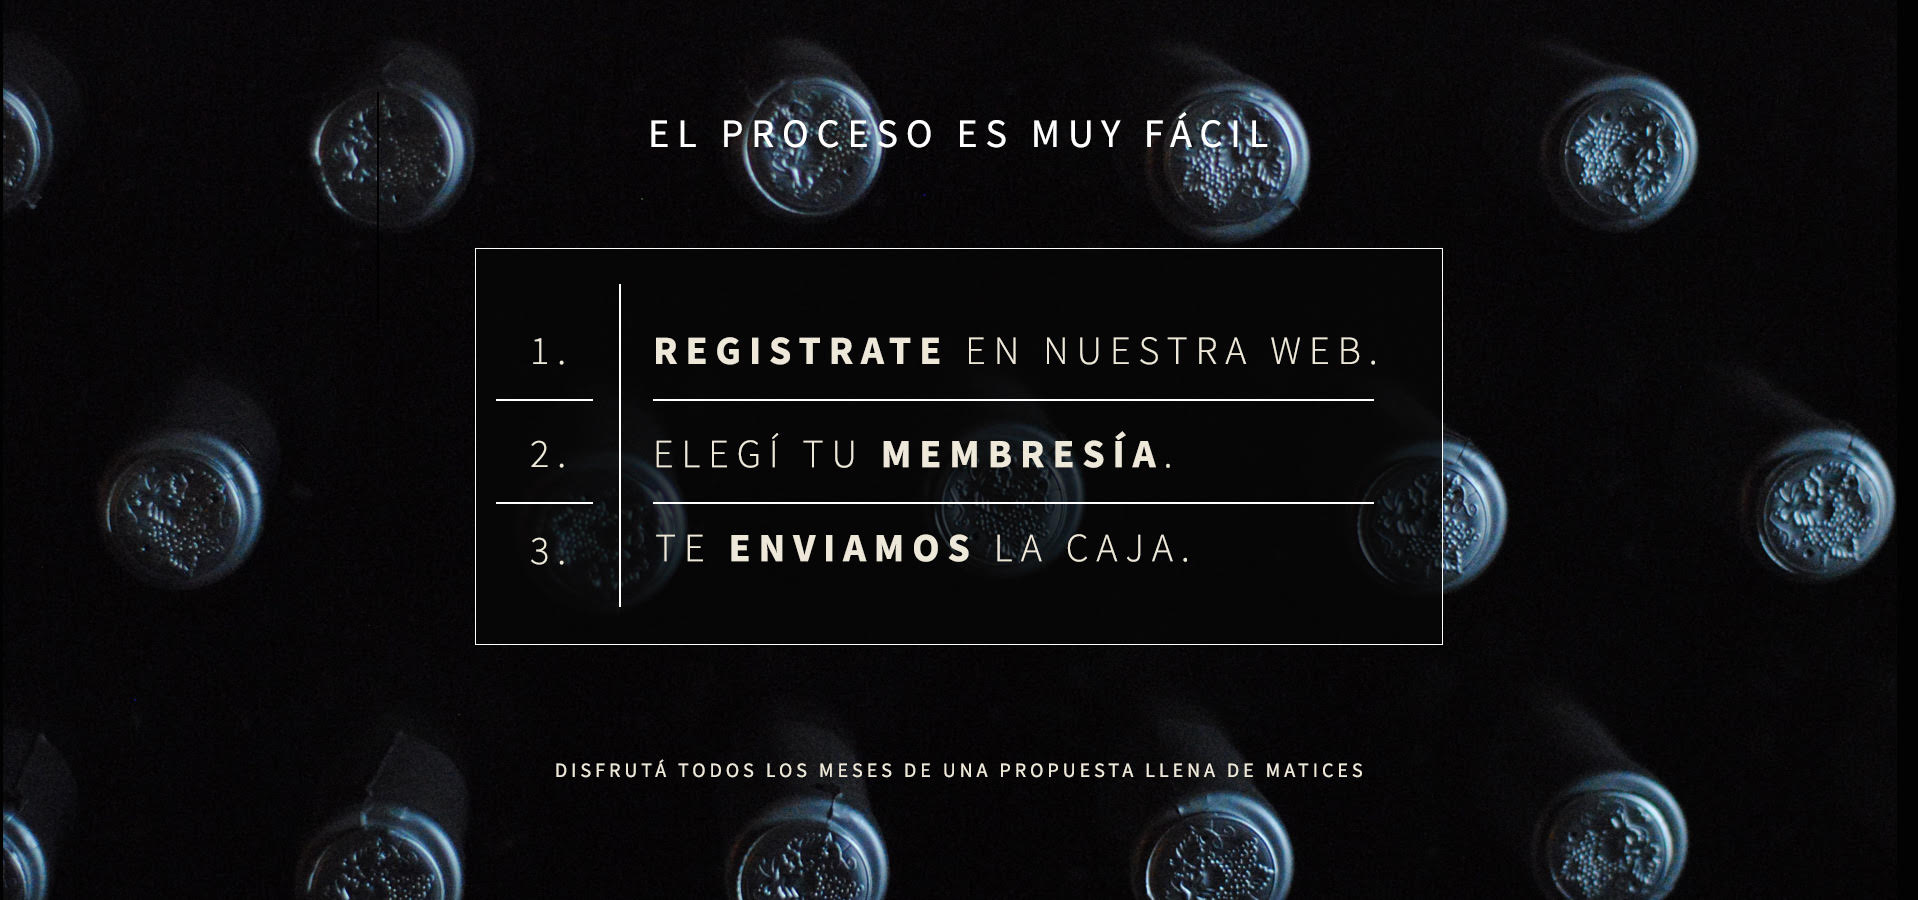
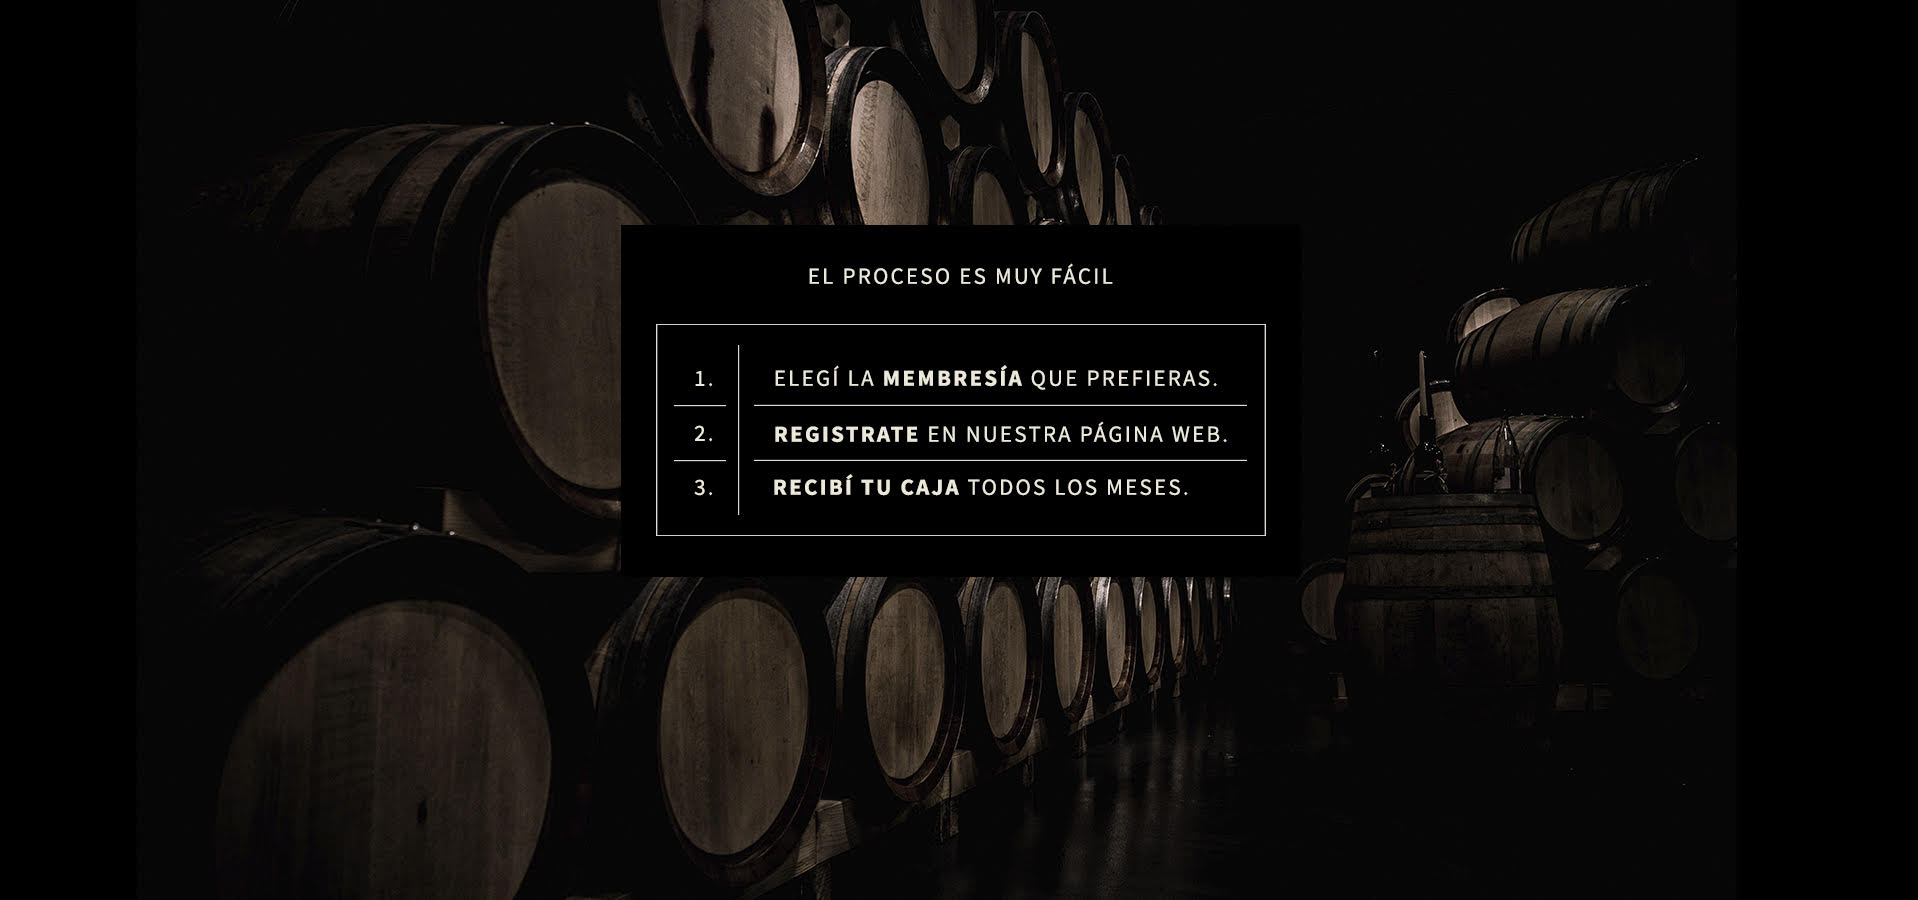
Cambios en membresia y header

diff --git a/index-1.html b/index-1.html
@@ -28,7 +28,9 @@
     <link href="https://fonts.googleapis.com/css?family=Montserrat:400,700" rel="stylesheet" type="text/css" />
     <link href="https://fonts.googleapis.com/css?family=Droid+Serif:400,700,400italic,700italic" rel="stylesheet" type="text/css" />
     <link href="https://fonts.googleapis.com/css?family=Roboto+Slab:400,100,300,700" rel="stylesheet" type="text/css" />
-    
+    <style>
+
+    </style>
     <!-- Global site tag (gtag.js) - Google Analytics -->
     <script async src="https://www.googletagmanager.com/gtag/js?id=UA-189378358-1"></script>
     <script>
@@ -81,6 +83,7 @@
         <div class="collapse navbar-collapse" id="navbarResponsive">
             <ul class="navbar-nav text-uppercase mx-auto">
                 <li class="nav-item"><a class="nav-link js-scroll-trigger" href="#contact"><strong>Quiero ser parte del club</strong></a></li>
+
                 <a class="d-none d-lg-block" href="#"><img src="assets/img/logo.png" width="20%" style="margin:auto; display: block"></a>
                 <li class="nav-item"><a class="nav-link js-scroll-trigger" href="#portfolio">Membresías</a></li>                
                 <li class="nav-item"><a class="nav-link js-scroll-trigger" href="#about">Preguntas frecuentes</a></li>
@@ -88,7 +91,7 @@
         </div>
     </nav>
     <!-- Masthead-->
-    <header class="masthead">
+    <header class="masthead"> 
     </header>
     <!-- Services-->
     <section class="page-section" id="services">
@@ -109,14 +112,11 @@
             <div class="row">
                 <div class="col-lg-4 col-sm-6 mb-4 wow fadeInLeft" data-wow-duration="0.5s">
                     <div class="portfolio-item">
-                        <div class="portfolio-caption">
-                            <img src="assets/img/membresia-brote.png" width="100%" />
-                            <!--div class="portfolio-caption-heading">Membresía Brote</div-->
-                            <!--div class="portfolio-caption-subheading">Expresión frutal y floral del vino presentes en cada etiqueta, e invitando a una segunda copa.</div-->
-                            <br>
-                            <br>
-                            <br>
-                            <p class="descriptionwine">Expresión <strong>frutal y floral</strong> del vino presentes en cada etiqueta, e invitando a una segunda copa.</p><br>
+                        <div class="portfolio-caption item1">
+                            <img src="assets/img/membresia-brote-negro.png" width="70%" />
+                            <div class="portfolio-caption-heading">Membresía Brote</div>
+                            <div class="portfolio-caption-subheading">Lorem ipsum dolor sit amet, consectetur adipiscing elit, </div>
+                            <p>sed do eiusmod tempor incididunt ut labore et dolore magna aliqua. Ut enim ad minim veniam, quis nostrud exercitation ullamco laboris nisi ut aliquip ex ea commodo consequat. Duis aute irure dolor in reprehenderit in voluptate velit esse cillum dolore eu fugiat nulla pariatur. Excepteur sint occaecat cupidatat non proident, sunt in culpa qui officia deserunt mollit anim id est laborum.</p>
                             <hr>
                             <diV class="row">
                                 <div class="col-md-6 lateral-border mobile-wine">
@@ -135,14 +135,11 @@
                 </div>
                 <div class="col-lg-4 col-sm-6 mb-4 wow fadeInLeft" data-wow-duration="1s">
                     <div class="portfolio-item">
-                        <div class="portfolio-caption">
-                            <img src="assets/img/membresia-envero.png" width="100%" /><br>
-                            <br>
-                            <br>
-                            <!--div class="portfolio-caption-heading">Membresía Envero</div>
-                            <div class="portfolio-caption-subheading">Lorem ipsum dolor sit amet, consectetur adipiscing elit, </div-->
-                            <p class="descriptionwine">Evidencia del <strong>impacto del color</strong> en cada etiqueta, expresiones tánicas con mayor presencia, y el acompañamiento de un poderío aromático que cautiva a todos los paladares.</p>
-                           <br>
+                        <div class="portfolio-caption item2">
+                            <img src="assets/img/membresia-envero-negro.png" width="70%" />
+                            <div class="portfolio-caption-heading">Membresía Envero</div>
+                            <div class="portfolio-caption-subheading">Lorem ipsum dolor sit amet, consectetur adipiscing elit, </div>
+                            <p>sed do eiusmod tempor incididunt ut labore et dolore magna aliqua. Ut enim ad minim veniam, quis nostrud exercitation ullamco laboris nisi ut aliquip ex ea commodo consequat. Duis aute irure dolor in reprehenderit in voluptate velit esse cillum dolore eu fugiat nulla pariatur. Excepteur sint occaecat cupidatat non proident, sunt in culpa qui officia deserunt mollit anim id est laborum.</p>
                             <hr>
                             <diV class="row">
                                 <div class="col-md-6 lateral-border mobile-wine">
@@ -161,13 +158,11 @@
                 </div>
                 <div class="col-lg-4 col-sm-6 mb-4 wow fadeInLeft" data-wow-duration="1.5s">
                     <div class="portfolio-item">
-                        <div class="portfolio-caption">
-                            <img src="assets/img/membresia-vendimia.png" width="100%" /><br>
-                            <br><br>
-                            <!--div class="portfolio-caption-heading">Membresía Cosecha</div>
-                            <div class="portfolio-caption-subheading">Lorem ipsum dolor sit amet, consectetur adipiscing elit, </div-->
-                            <p class="descriptionwine">Donde los alquimistas conspiran en cada etiqueta seleccionada y logran expresar <strong>carácter, elegancia y delicadeza</strong>, utilizando al paso del tiempo como aliado.</p>
-                            <br>
+                        <div class="portfolio-caption item3">
+                            <img src="assets/img/membresia-cosecha-negro.png" width="70%" />
+                            <div class="portfolio-caption-heading">Membresía Cosecha</div>
+                            <div class="portfolio-caption-subheading">Lorem ipsum dolor sit amet, consectetur adipiscing elit, </div>
+                            <p>sed do eiusmod tempor incididunt ut labore et dolore magna aliqua. Ut enim ad minim veniam, quis nostrud exercitation ullamco laboris nisi ut aliquip ex ea commodo consequat. Duis aute irure dolor in reprehenderit in voluptate velit esse cillum dolore eu fugiat nulla pariatur. Excepteur sint occaecat cupidatat non proident, sunt in culpa qui officia deserunt mollit anim id est laborum.</p>
                             <hr>
                             <diV class="row">
                                 <div class="col-md-6 lateral-border mobile-wine">
@@ -324,8 +319,8 @@
                                     <option value="MEMBRESIA BROTE X 4 BOTELLAS">MEMBRESIA BROTE X 4 BOTELLAS</option>
                                     <option value="MEMBRESIA ENVERO X 3 BOTELLAS">MEMBRESIA ENVERO X 3 BOTELLAS</option>
                                     <option value="MEMBRESIA ENVERO X 4 BOTELLAS">MEMBRESIA ENVERO X 4 BOTELLAS</option>
-                                    <option value="MEMBRESIA VENDIMIA X 3 BOTELLAS">MEMBRESIA VENDIMIA X 3 BOTELLAS</option>
-                                    <option value="MEMBRESIA VENDIMIA X 4 BOTELLAS">MEMBRESIA VENDIMIA X 4 BOTELLAS</option>
+                                    <option value="MEMBRESIA COSECHA X 3 BOTELLAS">MEMBRESIA COSECHA X 3 BOTELLAS</option>
+                                    <option value="MEMBRESIA COSECHA X 4 BOTELLAS">MEMBRESIA COSECHA X 4 BOTELLAS</option>
                                 </select>
                                 <p class="help-block text-danger">Por favor seleccioná el tipo de memebresía.</p>
                             </div>                            

diff --git a/css/styles.css b/css/styles.css
@@ -108,15 +108,15 @@ abbr[data-original-title] {
 }
 @media (max-width:950px) {
     #services {
-        background-size: 170%!important;
+        background-size: 269%!important;
         padding: 0px!important
     }
     #services .container {
-        height: 43vh!important
+        height: 73vh!important
     }
 }
 #services{
-  text-align: center; color: #fff;background: url(../assets/img/header-bg2.jpg) #000;background-repeat: no-repeat;background-attachment: scroll;background-position: center center;background-size: contain;
+  text-align: center; color: #fff;background: url(../assets/img/header-bg2.jpg) #000;background-repeat: no-repeat;background-attachment: scroll;background-position: center center;background-size: cover;
 }
 #services .container{
   height: 56vh
@@ -130,7 +130,7 @@ abbr[data-original-title] {
     font-family: 'Source Sans Pro', sans-serif;
     text-transform: uppercase;
     font-weight: 100;
-    font-size: 20px;
+    font-size: 1rem;
     letter-spacing: 2.5px;
 }
 address {
@@ -2518,8 +2518,8 @@ fieldset:disabled a.btn {
 }
 .btn-primary:not(:disabled):not(.disabled):active, .btn-primary:not(:disabled):not(.disabled).active, .show > .btn-primary.dropdown-toggle {
   color: #fff;
-  background-color: #fec503;
-  border-color: #f3bd01;
+  background-color: #87664b;
+  border-color: #87664b;
 }
 .btn-primary:not(:disabled):not(.disabled):active:focus, .btn-primary:not(:disabled):not(.disabled).active:focus, .show > .btn-primary.dropdown-toggle:focus {
   box-shadow: 0 0 0 0.2rem rgba(254, 216, 84, 0.5);
@@ -10046,7 +10046,7 @@ p {
 }
 
 .page-section {
-  padding: 6rem 1rem;
+  padding: 9rem 1rem;
 }
 .page-section h2.section-heading {
   font-size: 3rem;
@@ -10138,9 +10138,10 @@ img::-moz-selection {
 #mainNav .navbar-nav .nav-item .nav-link {
   /*font-family: "Montserrat", -apple-system, BlinkMacSystemFont, "Segoe UI", Roboto, "Helvetica Neue", Arial, sans-serif, "Apple Color Emoji", "Segoe UI Emoji", "Segoe UI Symbol", "Noto Color Emoji";*/
   font-family: 'Source Sans Pro', sans-serif;
-  font-size: 0.95rem;
+  font-size: 1rem;
   color: #fff;
   letter-spacing: 0.0625em;
+  line-height: 220%;
 }
 #mainNav .navbar-nav .nav-item .nav-link.active, #mainNav .navbar-nav .nav-item .nav-link:hover {
   color: #c5ae8c;
@@ -10185,11 +10186,12 @@ img::-moz-selection {
   header.masthead {
     background-size: contain!important;
     background-color: #000!important;
+    padding-top: 5rem!important;
   }
 }
 header.masthead {
   
-  padding-top: 8rem; 
+  padding-top: 6rem; 
   background: black; 
   padding-bottom: 1px;
   box-shadow: 1px 6px 22px -2px rgba(0,0,0,0.74);
@@ -10243,7 +10245,7 @@ header.masthead .masthead-heading {
   max-width: 25rem;
   margin-left: auto;
   margin-right: auto;
-  border: solid #735c3a 1px;
+  /*border: solid #735c3a 1px;*/
 }
 #portfolio .portfolio-item .portfolio-link {
   position: relative;
@@ -10335,6 +10337,9 @@ header.masthead .masthead-heading {
   text-transform: uppercase;  
   letter-spacing: 2px;
 }
+.descriptionwine{
+  min-height: 100px;
+}
 #portfolio .portfolio-item .portfolio-caption p{
     font-size: 14px;
     font-family: 'Crimson Text', serif;
@@ -10392,7 +10397,7 @@ header.masthead .masthead-heading {
   font-size: 20px!important; font-weight: bold; margin-bottom: 0px;font-family: 'Source Sans Pro', sans-serif;
 }
 .btn-suscribe{
-  background: #000;font-size: 14px; padding: 10px 30px;font-family: 'Crimson Text', serif;
+  font-size: 14px; padding: 10px 30px;font-family: 'Crimson Text', serif;
 }
 #about{
   background: #e4e1de;
@@ -10703,6 +10708,10 @@ option{
   font-weight: 100!important;
   color: #6c757d!important;
   font-family: 'Crimson Text', serif!important;
+}
+select option:hover {
+  background: #ff9500 -webkit-linear-gradient(bottom, #ff9500 0%, #ff9500 100%);
+  color: #fff;
 }
 select{
   font-weight: 100!important;
